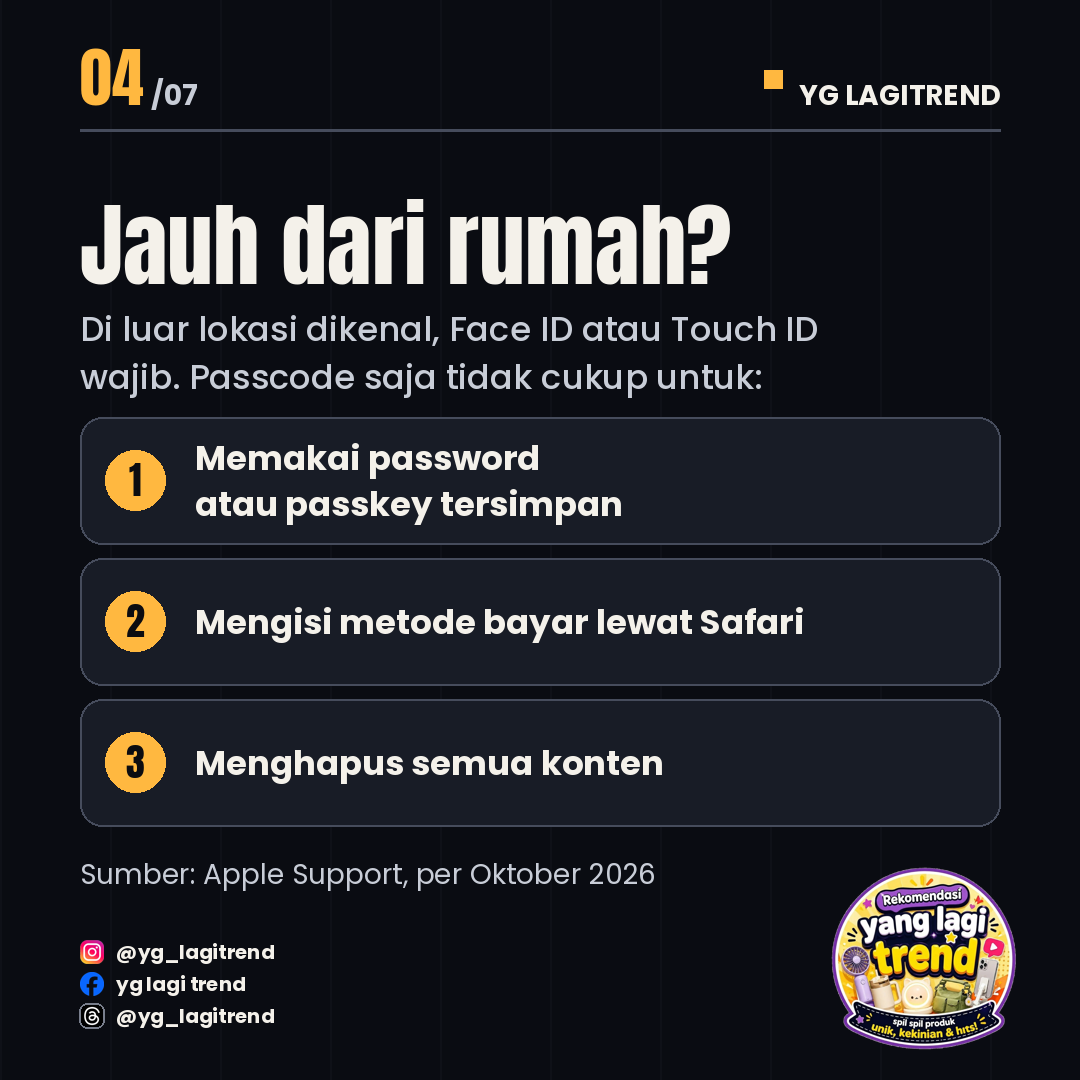
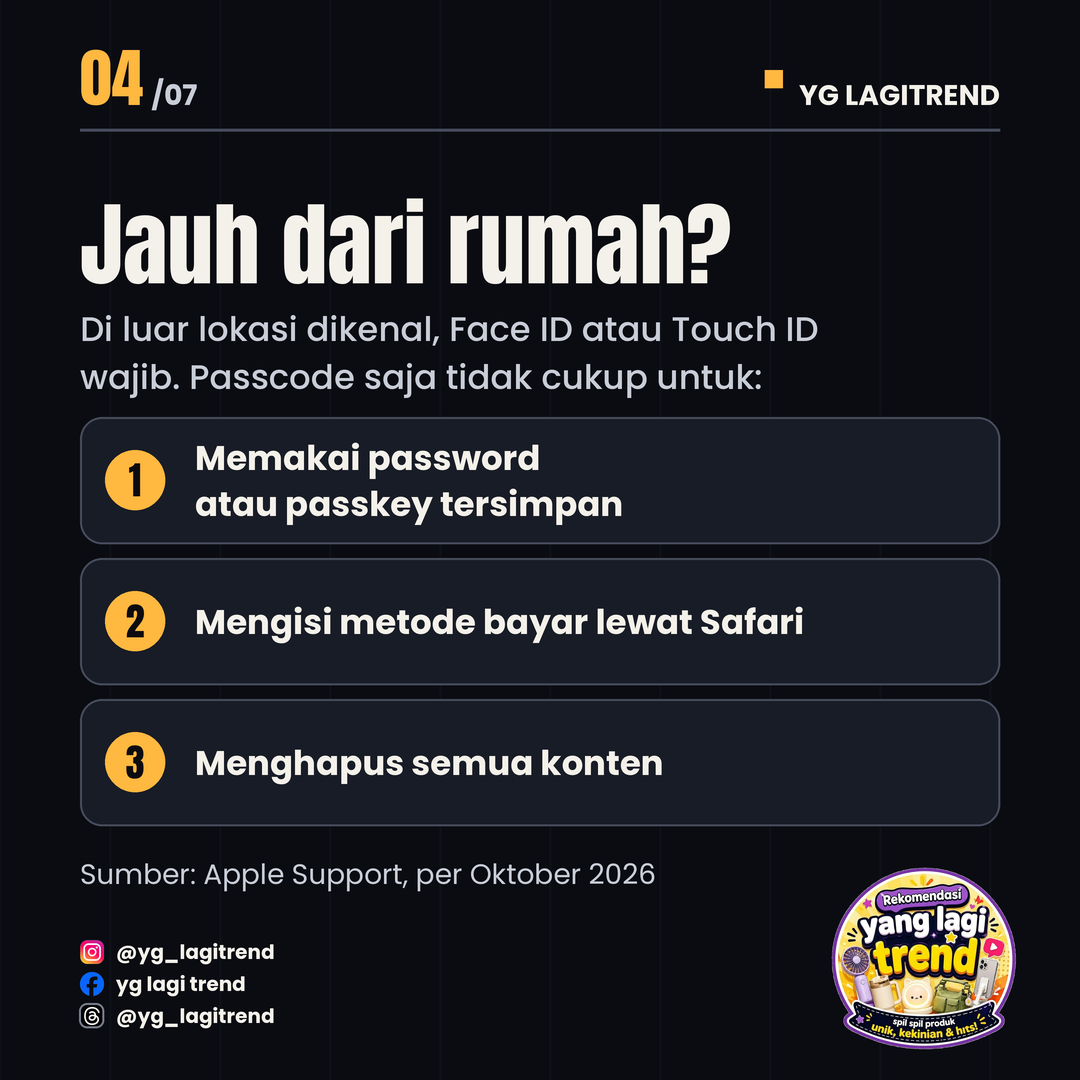
Template v2: render supersampling 3x agar gambar halus (anti-aliasing)

diff --git a/template/car_template_v2.py b/template/car_template_v2.py
@@ -7,7 +7,31 @@ PB='/usr/share/fonts/truetype/google-fonts/Poppins-Bold.ttf'
 PM='/usr/share/fonts/truetype/google-fonts/Poppins-Medium.ttf'
 PR='/usr/share/fonts/truetype/google-fonts/Poppins-Regular.ttf'
 BG=(10,12,18); WHITE=(244,241,234); ACC=(255,184,64); MUT=(200,205,215); CARD=(24,28,38); LN=(70,76,92); GRN=(60,200,130); INKD=(12,12,16)
-F=lambda p,s:ImageFont.truetype(p,s)
+SC=3  # supersampling: gambar digambar 3x lebih besar lalu dikecilkan, supaya tepi halus (anti-aliasing)
+class SF:
+    def __init__(self,raw):self.raw=raw
+F=lambda p,s:SF(ImageFont.truetype(p,int(s*SC)))
+def _f(v):
+    out=[]
+    for a in (v if isinstance(v,(list,tuple)) else [v]):
+        out.extend(_f(a) if isinstance(a,(list,tuple)) else [a*SC])
+    return out
+def _pts(v):
+    f=_f(v);return [(f[k],f[k+1]) for k in range(0,len(f),2)] if isinstance(v[0],(list,tuple)) else f
+class SD:
+    def __init__(self,c):self.d=ImageDraw.Draw(c.img)
+    def text(self,xy,t,font,fill=None,anchor=None):self.d.text((xy[0]*SC,xy[1]*SC),t,font=font.raw,fill=fill,anchor=anchor)
+    def textlength(self,t,font):return self.d.textlength(t,font=font.raw)/SC
+    def line(self,xy,fill=None,width=1,joint=None):self.d.line(_pts(xy),fill=fill,width=int(width*SC),joint=joint)
+    def rectangle(self,xy,fill=None,outline=None,width=1):self.d.rectangle(_f(xy),fill=fill,outline=outline,width=int(width*SC))
+    def rounded_rectangle(self,xy,radius=0,fill=None,outline=None,width=1):self.d.rounded_rectangle(_f(xy),radius=radius*SC,fill=fill,outline=outline,width=int(width*SC))
+    def ellipse(self,xy,fill=None,outline=None,width=1):self.d.ellipse(_f(xy),fill=fill,outline=outline,width=int(width*SC))
+    def polygon(self,xy,fill=None,outline=None):self.d.polygon(_pts(xy),fill=fill,outline=outline)
+    def arc(self,xy,start,end,fill=None,width=1):self.d.arc(_f(xy),start,end,fill=fill,width=int(width*SC))
+class Canvas:
+    def __init__(self,img):self.img=img
+    def paste_big(self,g,xy):self.img.paste(g,(int(xy[0]),int(xy[1])),g)
+    def save(self,path):self.img.resize((W,H),Image.LANCZOS).save(path)
 IDENT=[('ig','@yg_lagitrend'),('fb','yg lagi trend'),('th','@yg_lagitrend')]  # satu set untuk semua platform
 ICONDIR='/home/claude/carousel-yg-lagitrend/template/icons/'
 LOGO='/home/claude/carousel-yg-lagitrend/template/logo.png'
@@ -37,9 +61,9 @@ def lines(d,x,y,t,f,fill,w,lh):
     for l in bwrap(d,t,f,w):d.text((x,y),l,font=f,fill=fill);y+=lh
     return y
 def logo(im,cx,cy,r=95,onacc=False):
-    d=ImageDraw.Draw(im)
+    d=SD(im)
     if os.path.exists(LOGO):
-        lg=Image.open(LOGO).convert('RGBA');lg.thumbnail((2*r,2*r));im.paste(lg,(cx-lg.width//2,cy-lg.height//2),lg)
+        lg=Image.open(LOGO).convert('RGBA');lg.thumbnail((2*r*SC,2*r*SC),Image.LANCZOS);im.paste_big(lg,(cx*SC-lg.width//2,cy*SC-lg.height//2))
     else:
         d.ellipse([cx-r,cy-r,cx+r,cy+r],outline=INKD if onacc else ACC,width=5);d.text((cx,cy),"LOGO",font=F(PB,30),fill=INKD if onacc else ACC,anchor='mm')
 def identity(d,im,x,y0,dark=False,pitch=42):
@@ -49,13 +73,13 @@ def identity(d,im,x,y0,dark=False,pitch=42):
         cy=y0+k*pitch
         pth=ICONDIR+ic+'.png'
         if os.path.exists(pth):
-            g=Image.open(pth).convert('RGBA');g.thumbnail((S,S));im.paste(g,(x+(S-g.width)//2,cy-g.height//2),g)
+            g=Image.open(pth).convert('RGBA');g.thumbnail((S*SC,S*SC),Image.LANCZOS);im.paste_big(g,((x+S/2)*SC-g.width//2,cy*SC-g.height//2))
             if ic=='th' and not dark:d.rounded_rectangle([x-1,cy-S//2-1,x+S,cy+S//2],radius=8,outline=(120,126,140),width=2)
         else:
             d.rounded_rectangle([x,cy-S//2,x+S,cy+S//2],radius=7,outline=col,width=2);d.text((x+S//2,cy),{'ig':'IG','fb':'FB','th':'TH'}[ic],font=F(PB,12),fill=col,anchor='mm')
         d.text((x+S+12,cy),txt,font=F(PB,20),fill=col,anchor='lm')
 def frame(i,n,src=None,panel=False):
-    im=Image.new('RGB',(W,H),BG);d=ImageDraw.Draw(im)
+    im=Canvas(Image.new('RGB',(W*SC,H*SC),BG));d=SD(im)
     for x in range(0,W,110):d.line([x,0,x,H],fill=(15,17,24),width=2)
     d.text((80,105),f"{i:02d}",font=F(AN,64),fill=ACC,anchor='ls');d.text((80+d.textlength(f"{i:02d}",font=F(AN,64))+8,105),f"/{n:02d}",font=F(PB,28),fill=MUT,anchor='ls')
     d.rectangle([W-80-(d.textlength("YG LAGITREND",font=F(PB,28))+34),70,W-80-(d.textlength("YG LAGITREND",font=F(PB,28))+34)+18,88],fill=ACC)
